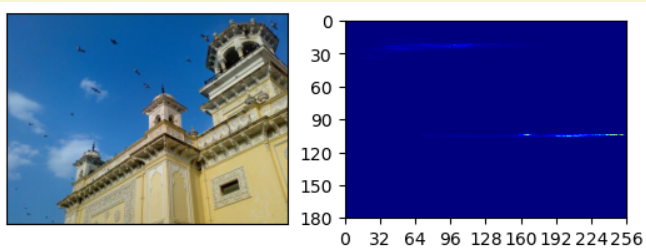
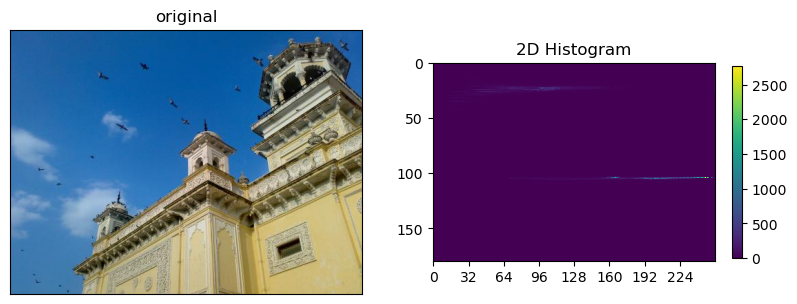
fix

diff --git a/docs/DIP/cv2/ch02/dip_histogram.md b/docs/DIP/cv2/ch02/dip_histogram.md
@@ -2,14 +2,17 @@
 
 Histogram은 image의 intensity (or pixel이 가지는 값)들의 분포를 보여줌.
 
-chart로 표현하기도 하지만 내부적 데이터로 사용하기도함.
+* chart로 표현하기도 하지만 
+* image에 대한 feature에 해당하는 내부적 데이터로 사용하기도함.
 
-image에서 histogram으로 변환은 비가역적 변환임 
+image에서 histogram으로 변환은 ***비가역적 변환*** 임  
 (다른 image들도 같은 histogram을 가질 수 있음).
 
 <figure markdown>
 ![](../../img/ch02/histogram.jpg){width="400"}
 </figure>
+
+---
 
 ## Terms
 
@@ -150,6 +153,8 @@ plt.show()
 
 ![](../../img/ch02/histogram_mask.png)
 
+---
+
 ## Histogram Calculation in NumPy
 
 ```Python
@@ -175,43 +180,88 @@ hist,bin_edges = np.histogram(
 * `hist` : histogram
 * `bin_edges` : bin을 나누는 edge들이라 `bins+1`에 대응.
 
+---
+
 ## 2D Histograms
 
-feature가 1개인 경우엔 앞서 다룬 1 dimensional histogram을 구성하지만, feature가 2개인 경우엔 2D histogram으로 처리할 수 있다.
+Depth(or Channel, Feature)가 1개인 경우엔 앞서 다룬 1 Dimensional histogram을 구성하지만,  
+feature가 2개인 경우엔 2D Histogram으로 처리할 수 있다.
 
-Color space에서 `HSV` model을 생각해보면, V는 앞서 다룬 intensity이고, color에 해당하는 Hue와 saturation을 2D histogram으로 처리 가능하다.
+Color space에서 `HSV` model을 생각해보면, 
+
+* V는 앞서 다룬 Intensity이고, 
+* color에 해당하는 Hue와 Saturation을 2D Histogram으로 처리 가능하다.
 
 (RGB를 이용하여 3D histogram도 가능은 하지만 많이 사용되지는 않는다.)
 
-> Histogram backprojection에서 H와 S를 이용하는 경우가 많기 때문에 2D histogram의 경우, Hue와 Saturation을 다루는 경우가 많다.
+> Histogram backprojection에서  
+> H와 S를 이용하기 때문에  
+> 2D Histogram의 경우, Hue와 Saturation 으로 구한다.
 
 ```Python
+# ---------------------
+# imread by using URL
+import requests
+
+def ds_url_imread(url):
+    t0 = requests.get(url)# requests.models.Response 
+    t1 = t0.content       # bytes (immutable) 
+    t2 = bytearray(t1)    # bytearray (mutable)
+    t3 = np.asarray(t2, dtype=np.uint8) #ndarray
+    img = cv2.imdecode(t3, cv2.IMREAD_UNCHANGED)
+    return img
+
+# --------------------
+# load and histogramming
+
 import numpy as np
 import cv2 
 
-img = cv2.imread('../images/2d_histogram.jpg')
+url = 'https://raw.githubusercontent.com/dsaint31x/OpenCV_Python_Tutorial/master/images/2d_histogram.jpg'
+# img = cv2.imread('../images/2d_histogram.jpg')
+img = ds_url_imread(url)
 assert img is not None, "file could not be read, check with os.path.exists()"
 
-hsv = cv2.cvtColor(img,cv2.COLOR_BGR2HSV)
-hist = cv2.calcHist([hsv], [0, 1], None, [180, 256], [0, 180, 0, 256])
+hsv  = cv2.cvtColor(
+    img,
+    cv2.COLOR_BGR2HSV,
+)
+hist = cv2.calcHist(
+    [hsv], 
+    [0, 1],           # channels
+    None,             # mask
+    [180, 256],       # histSize or size of bins
+    [0, 180, 0, 256], # range to binning
+)
+
+print(f'{hist.shape = }')
+
+# -------------------------
+# display
 
 import matplotlib.pyplot as plt
 
-plt.subplot(1,2,1)
-plt.imshow(img[...,::-1])
-plt.xticks([]); plt.yticks([])
-plt.subplot(1,2,2)
-plt.imshow(hist, 
-           interpolation='nearest', 
-           cmap='jet')
-plt.yticks([0,30,60,90,120,150,180])
-plt.xticks([0,32,64,96,128,160,192,224,256])
-# plt.colorbar()
+fig, axs = plt.subplots(1,2, figsize=(10,5))
+axs[0].imshow(img[...,::-1])
+cax = axs[1].imshow(
+    hist,
+    interpolation='nearest',
+    cmap='viridis',
+)
+fig.colorbar(cax, ax=axs[1], shrink=0.5)
+
+axs[0].set_xticks([])
+axs[0].set_yticks([])
+axs[0].set_title('original')
+axs[1].set_xticks(range(0,180,30))
+axs[1].set_xticks(range(0,256,32))
+axs[1].set_title('2D Histogram')
+
 plt.show()
 ```
 
 <figure markdown>
-![](../../img/ch02/2d_histogram.png)
+![](../../img/ch02/2d_histogram.png) 
 </figure>
 
 * 푸른 하늘에 해당하는 pixel이 많기 때문에 Hue=120 근처에서 많은 값을 보임.
@@ -220,17 +270,20 @@ plt.show()
 histogram에서 잘 안보이기 때문에 V=255일 때의 HS map을 기반으로 처리한 2d histogram은 다음과 같음.
 
 <figure markdown>
-![](../../img/ch02/scaled_2d_histogram.png)
+![](../../img/ch02/scaled_2d_histogram.png){width="600"}
 </figure>
 
-* scaling의 값이 커질수록 2d histogram에서 강조가 되어 보이도록 처리함.
+* scaling (slide-bar의 test)의 값이 커질수록 2D histogram에서 강조가 되어 보이도록 처리함.
 * 푸른색과 노란색 부분이 강조되어 쉽게 확인이 가능함.
 
-Hue, Saturation은 color image의 특성을 나타내는 feature로 사용할 수 있다. (주의할 것은 다른 image라도 거의 비슷한 2d histogram을 가질 수 있다는 점임.)
+Hue, Saturation은 color image의 특성을 나타내는 feature로 사용할 수 있다.  
+(주의할 것은 다른 image라도 거의 비슷한 2D Histogram을 가질 수 있다는 점임.)
 
 * pixel들의 color의 분포를 나타내는 것임.
-* 위치적 정보가 사라지기 때문에 color들의 분포는 비슷하면 비슷한 2d histogram이 나올 수 있음.
+* 위치적 정보가 사라지기 때문에 color들의 분포는 비슷하면 비슷한 2D Histogram이 나올 수 있음.
 * histogram간의 유사도가 image가 같은지를 나타내는 것은 아님.
+
+---
 
 ## References
 
